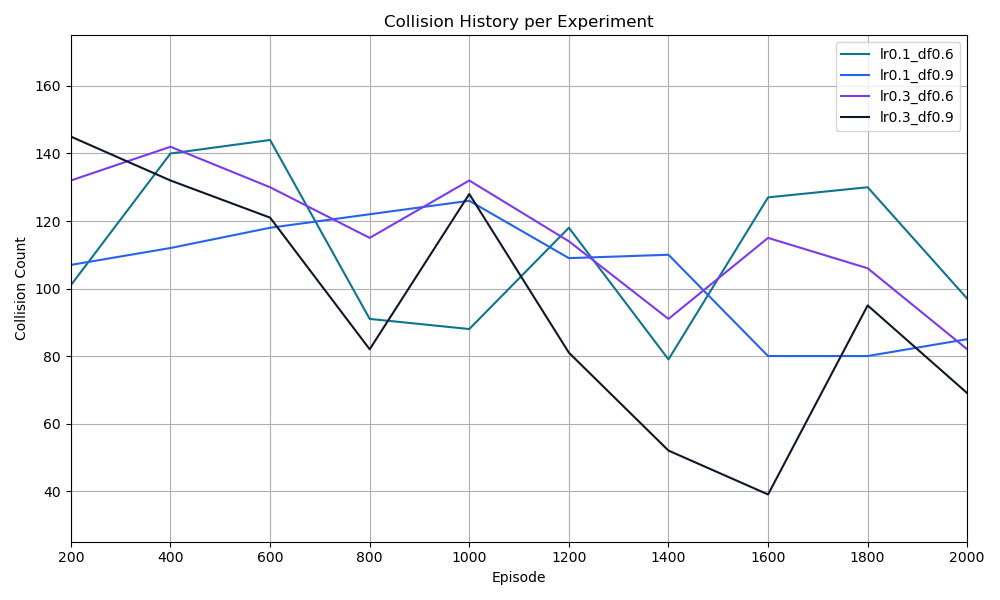
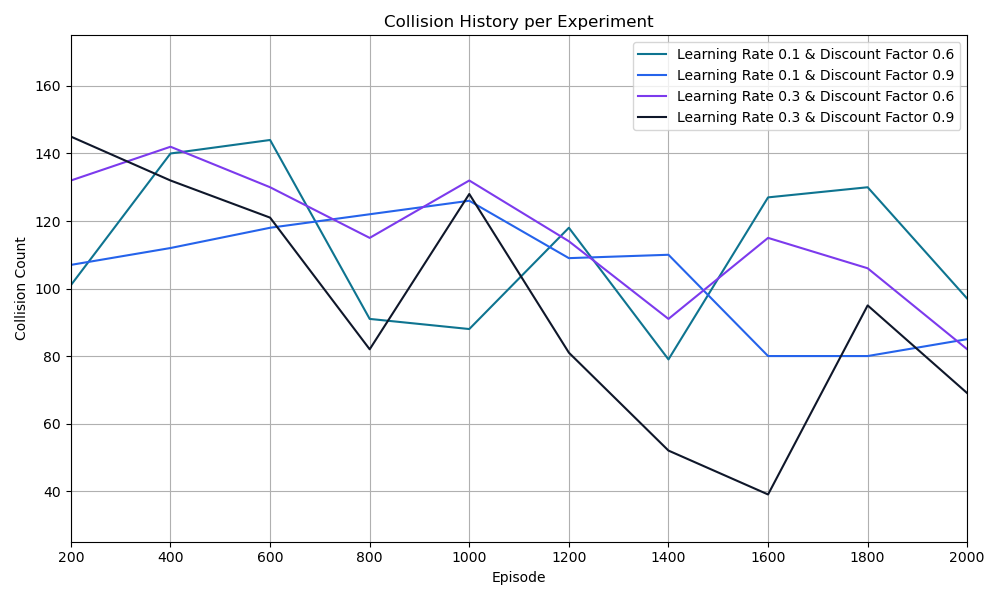
update: improved the collision plot function and regenerated the collision plot. Closes #71

Changed region(s): [[0.62, 0.06, 0.961, 0.24]]

diff --git a/rl_obstacle_avoidance/rl_obstacle_avoidance/plots.py b/rl_obstacle_avoidance/rl_obstacle_avoidance/plots.py
@@ -104,6 +104,14 @@ def plot_collisions_combined():
     
     plt.figure(figsize=(10, 6))
 
+    # label mapping
+    label_mapping = {
+    'q_table_lr0.1_df0.6.json': 'Learning Rate 0.1 & Discount Factor 0.6',
+    'q_table_lr0.1_df0.9.json': 'Learning Rate 0.1 & Discount Factor 0.9',
+    'q_table_lr0.3_df0.6.json': 'Learning Rate 0.3 & Discount Factor 0.6',
+    'q_table_lr0.3_df0.9.json': 'Learning Rate 0.3 & Discount Factor 0.9'
+    }
+
     for filename, style in zip(filenames, styles):
         filepath = os.path.join(base_path, filename)
         with open(filepath, 'r') as f:
@@ -116,7 +124,8 @@ def plot_collisions_combined():
         x = list(range(200, 2001, 200))
 
         # Lägg till label baserat på filnamnet
-        label = filename.replace('q_table_', '').replace('.json', '')
+        # label = filename.replace('q_table_', '').replace('.json', '')
+        label = label_mapping.get(filename, filename)
 
         plt.plot(x, collision_data, style, label=label)
 
